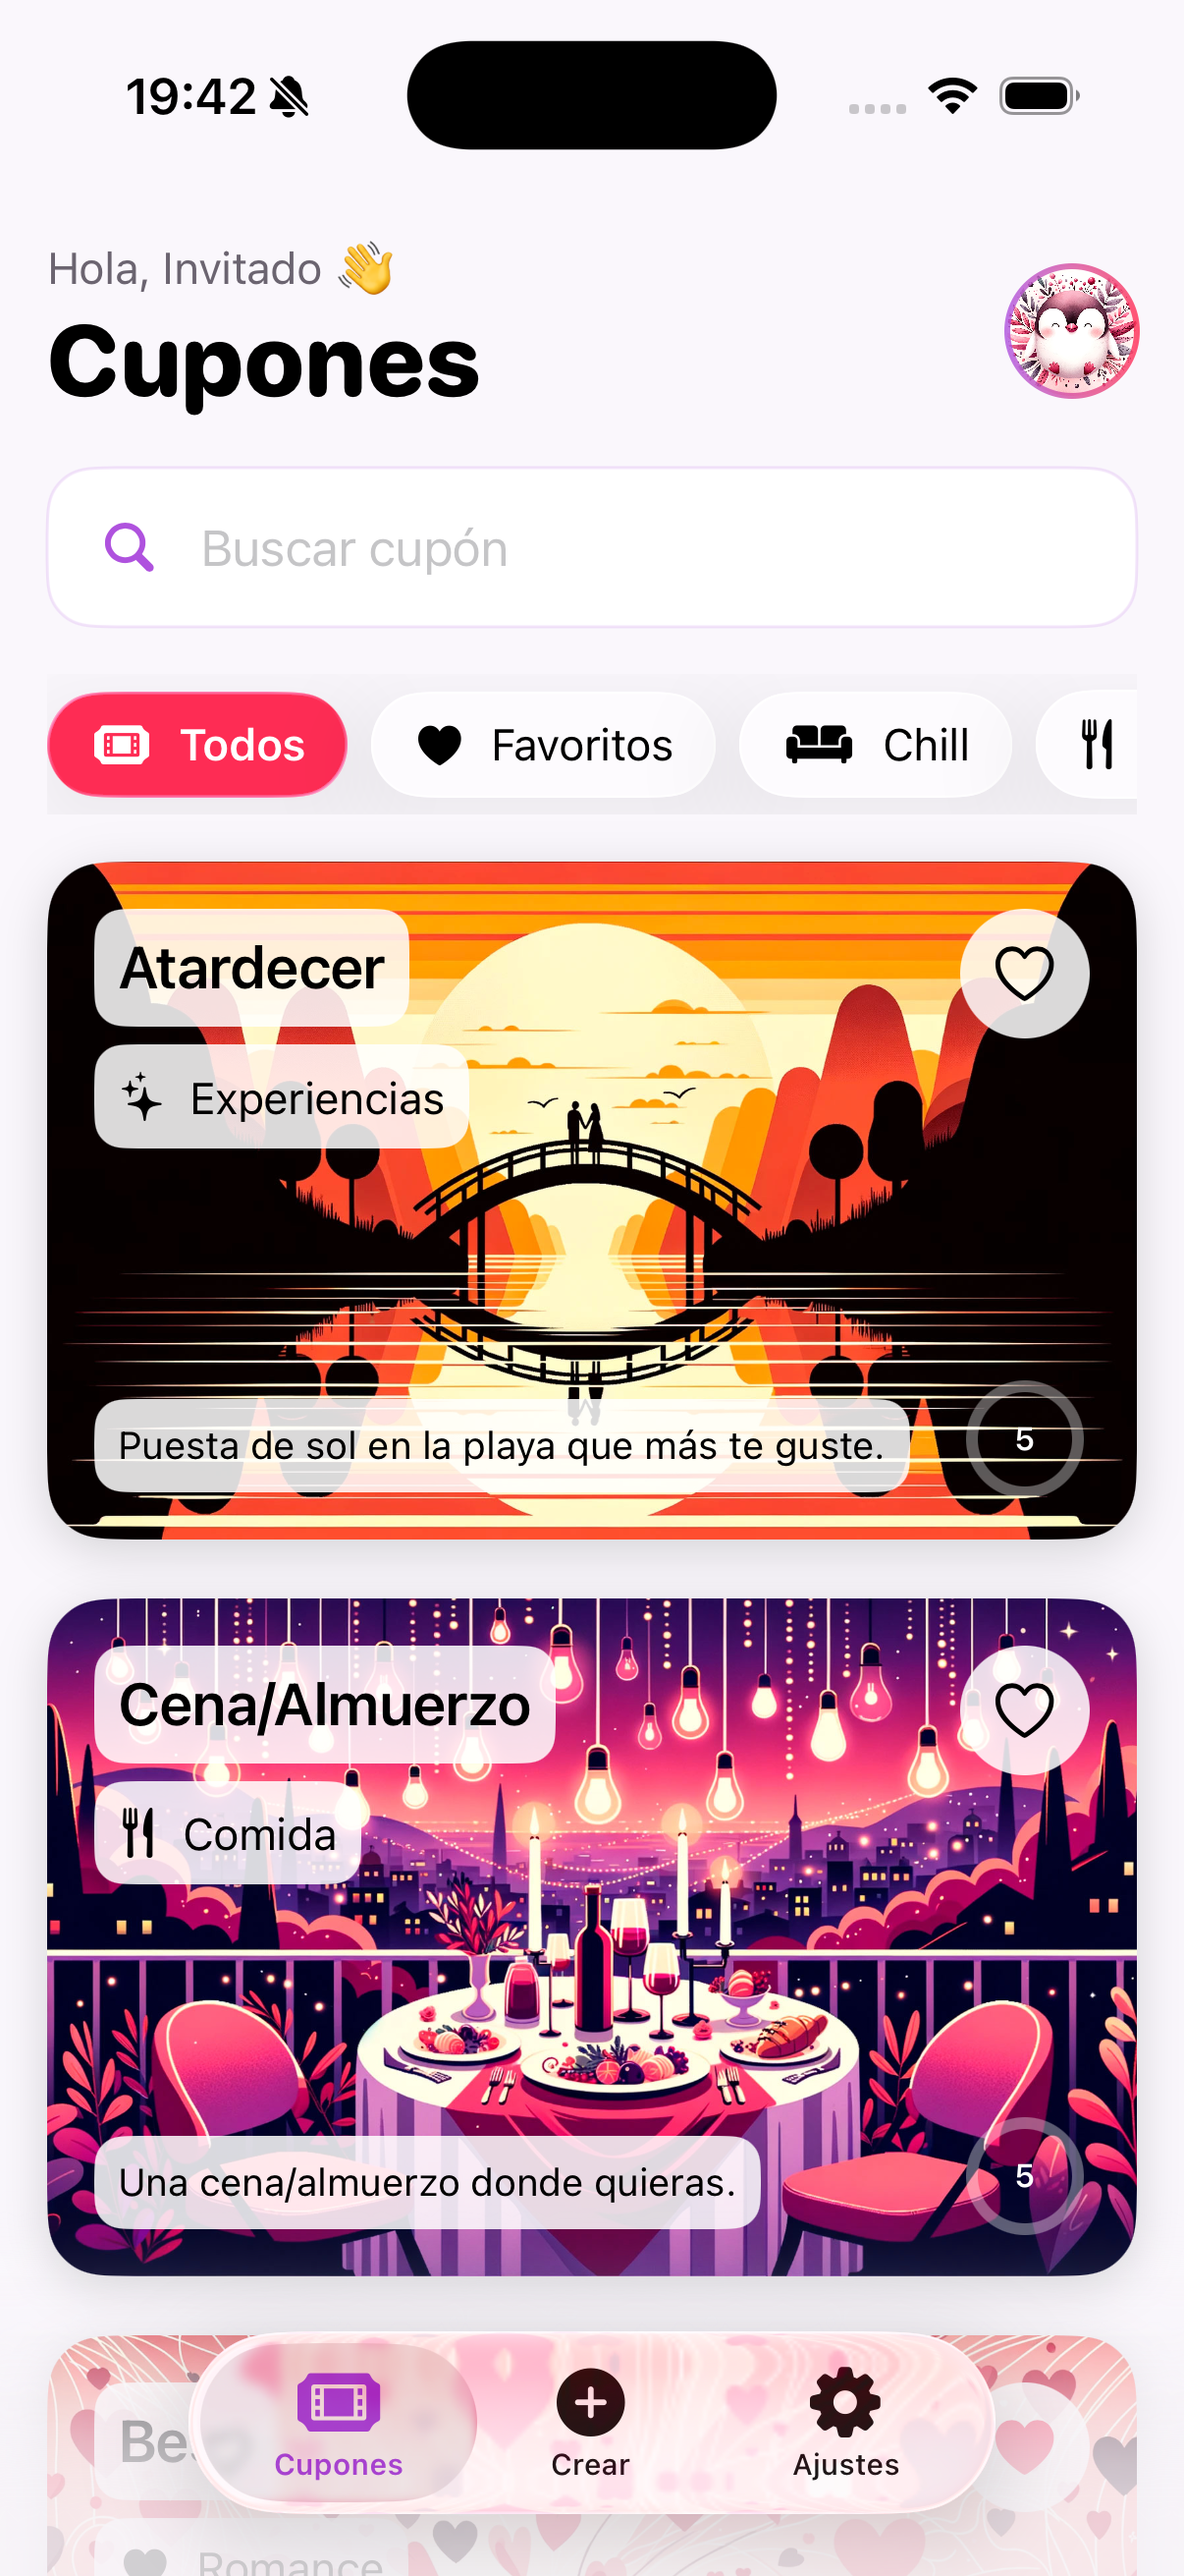
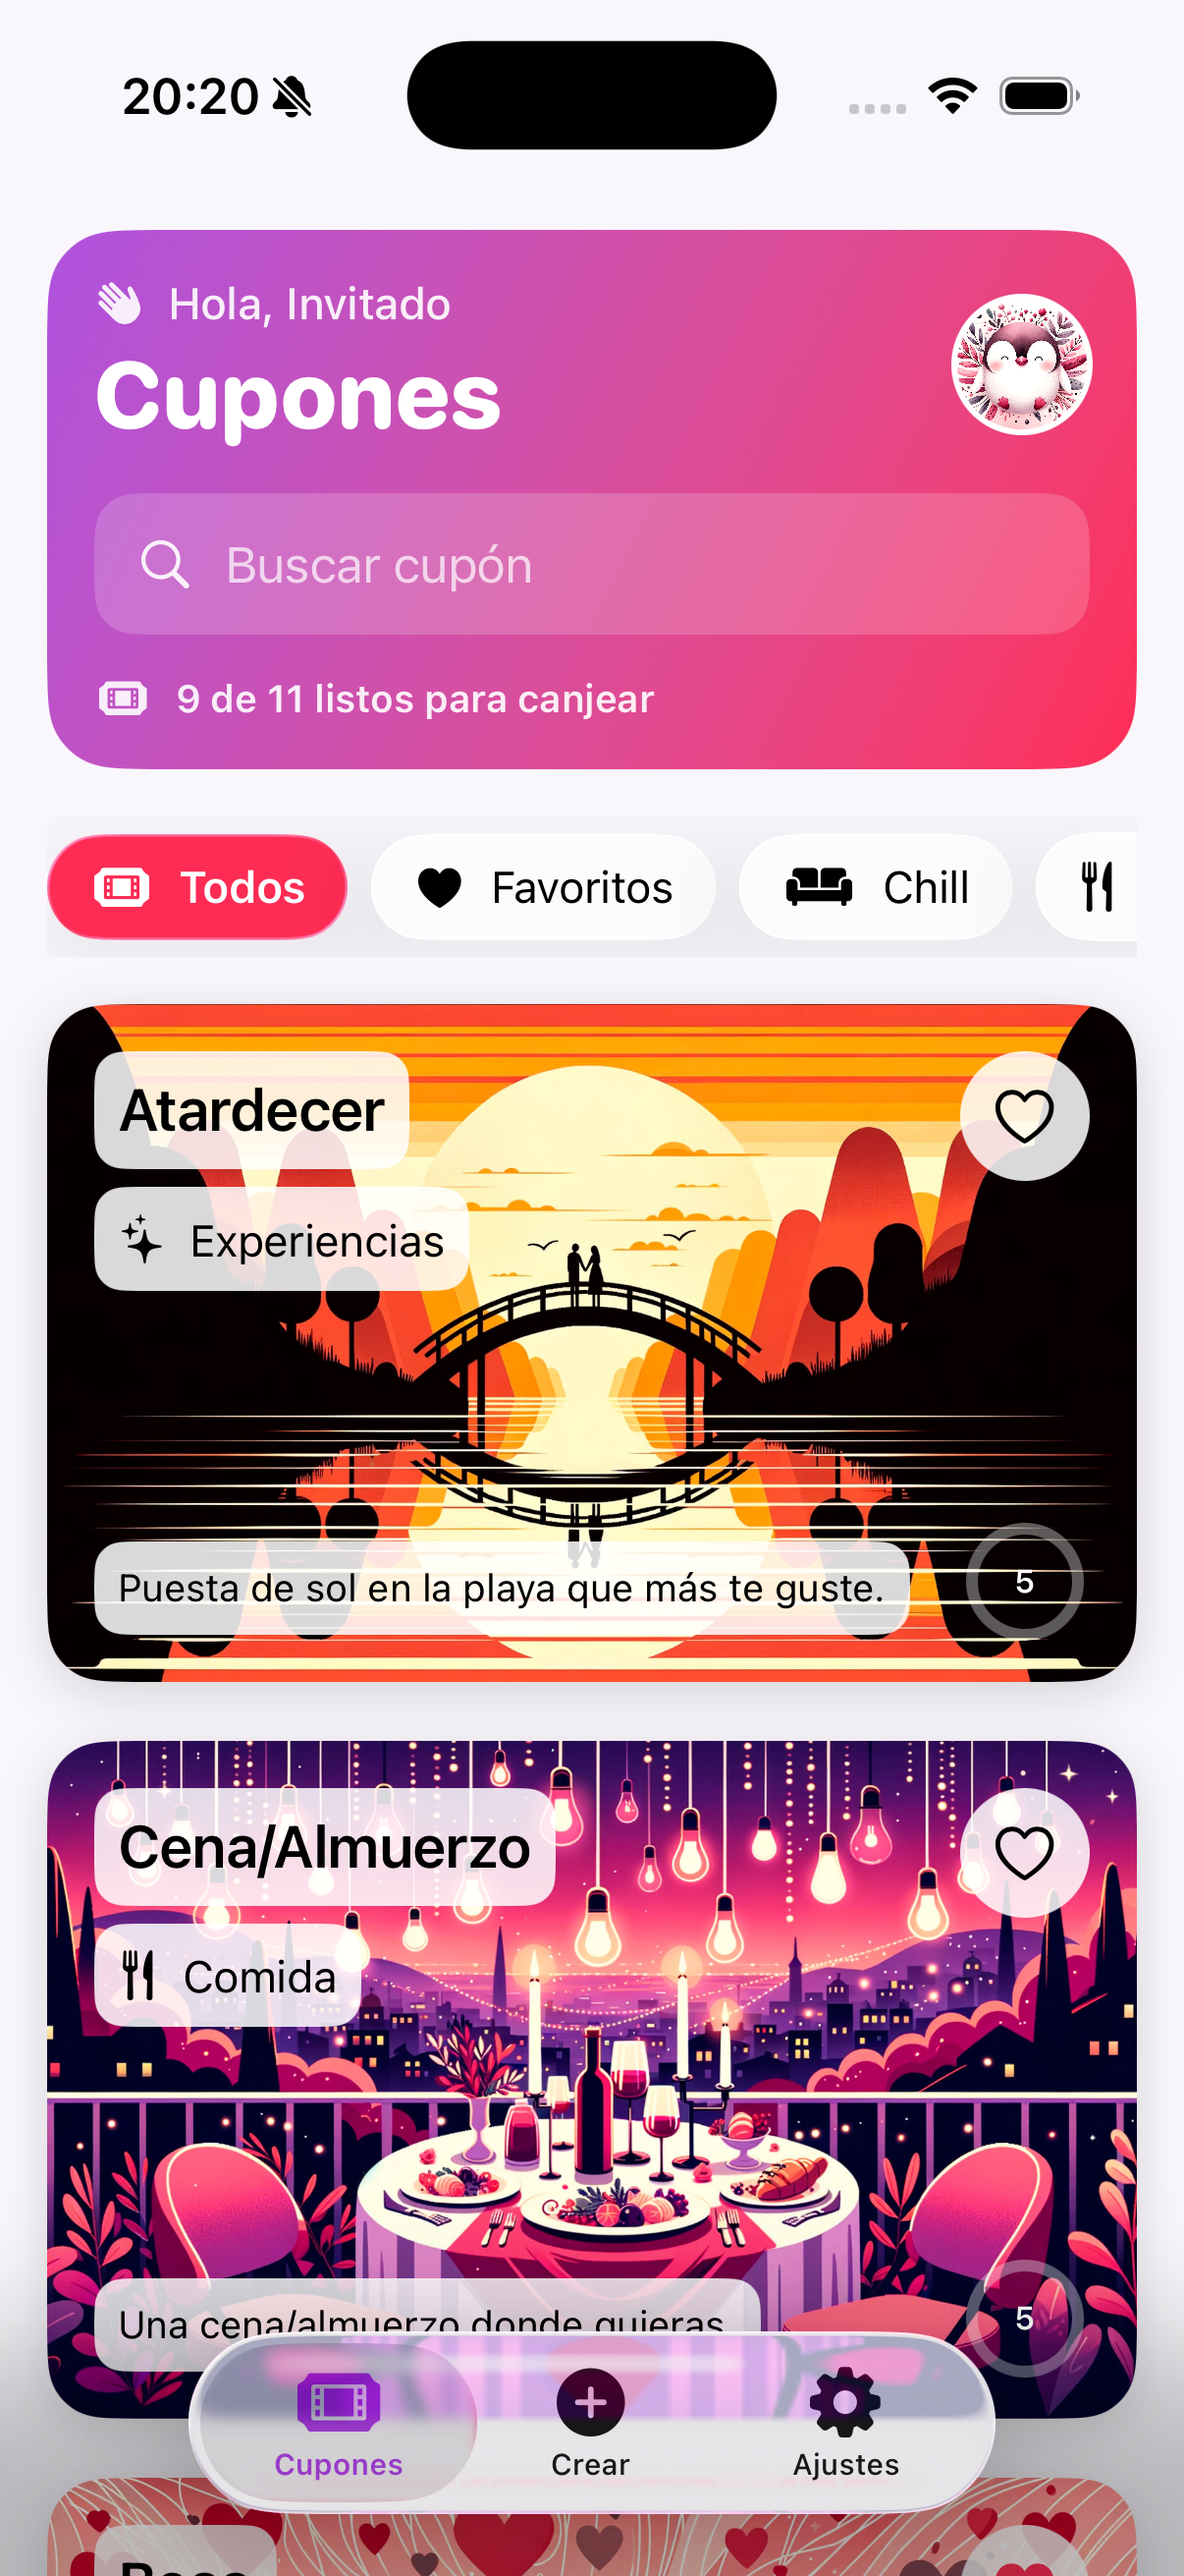
feat: héroe degradado en el inicio de Cupones
Cabecera en tarjeta degradada morado→rosa: saludo «Hola, X» con icono
flat, título blanco, avatar con anillo blanco, buscador integrado en el
degradado y contador «X de Y listos para canjear». Sin emojis, iconos
SF en todo. La portada se queda como estaba.

diff --git a/cuponeame/UI/Coupons/CouponListScreen.swift b/cuponeame/UI/Coupons/CouponListScreen.swift
@@ -40,7 +40,6 @@ struct CouponListScreen: View {
                         emptyState
                             .padding(.top, 40)
                     } else {
-                        searchField
                         filterChips
 
                         LazyVStack(spacing: 20) {
@@ -81,26 +80,49 @@ struct CouponListScreen: View {
     // MARK: - Cabecera
 
     private var header: some View {
-        HStack(spacing: 12) {
-            VStack(alignment: .leading, spacing: 2) {
-                if let name = auth.userName, !name.isEmpty {
-                    Text("Hola, \(name) 👋")
-                        .font(.subheadline)
-                        .foregroundStyle(CuponColors.subtleText)
+        VStack(spacing: 14) {
+            HStack(spacing: 12) {
+                VStack(alignment: .leading, spacing: 3) {
+                    if let name = auth.userName, !name.isEmpty {
+                        Label("Hola, \(name)", systemImage: "hand.wave.fill")
+                            .font(.subheadline.weight(.medium))
+                            .foregroundStyle(.white.opacity(0.9))
+                    }
+                    Text("Cupones")
+                        .font(.system(size: 32, weight: .heavy, design: .rounded))
+                        .foregroundStyle(.white)
                 }
-                Text("Cupones")
-                    .font(.system(size: 34, weight: .heavy, design: .rounded))
+                Spacer()
+                AvatarView(emoji: auth.avatar, size: 46)
+                    .overlay(Circle().stroke(.white, lineWidth: 2))
             }
-            Spacer()
-            AvatarView(emoji: auth.avatar, size: 44)
-                .overlay(Circle().stroke(CuponColors.brandStroke, lineWidth: 2))
+
+            searchField
+
+            if !store.coupons.isEmpty {
+                Label("\(store.coupons.filter { $0.canRedeem() }.count) de \(store.coupons.count) listos para canjear",
+                      systemImage: "ticket.fill")
+                    .font(.footnote.weight(.semibold))
+                    .foregroundStyle(.white.opacity(0.9))
+                    .frame(maxWidth: .infinity, alignment: .leading)
+            }
         }
-        .padding(.top, 4)
+        .padding(16)
+        .background(
+            LinearGradient(colors: [CuponColors.brandPurple, CuponColors.brandPink],
+                           startPoint: .topLeading, endPoint: .bottomTrailing),
+            in: RoundedRectangle(cornerRadius: 24))
     }
 
     private var searchField: some View {
-        AuthField(icon: "magnifyingglass") {
-            TextField("Buscar cupón", text: $searchText)
+        HStack(spacing: 10) {
+            Image(systemName: "magnifyingglass")
+                .foregroundStyle(.white.opacity(0.9))
+
+            TextField("", text: $searchText,
+                      prompt: Text("Buscar cupón").foregroundStyle(.white.opacity(0.7)))
+                .foregroundStyle(.white)
+                .tint(.white)
                 .autocorrectionDisabled()
 
             if !searchText.isEmpty {
@@ -108,10 +130,13 @@ struct CouponListScreen: View {
                     searchText = ""
                 } label: {
                     Image(systemName: "xmark.circle.fill")
-                        .foregroundStyle(CuponColors.subtleText)
+                        .foregroundStyle(.white.opacity(0.8))
                 }
             }
         }
+        .padding(.horizontal, 14)
+        .frame(height: 48)
+        .background(.white.opacity(0.18), in: RoundedRectangle(cornerRadius: 14))
     }
 
     private var filterChips: some View {
